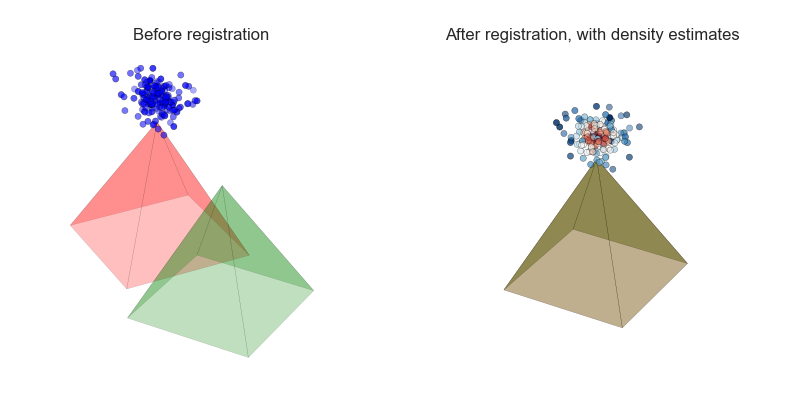
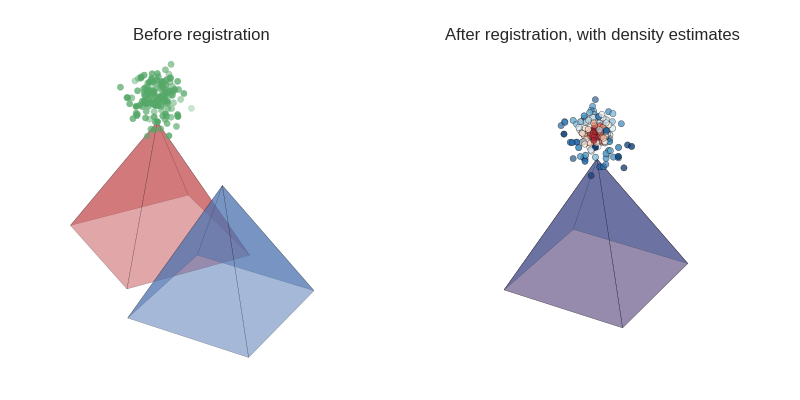
Adapt violinplot call to new API and improve colors.

diff --git a/innear.py b/innear.py
@@ -237,30 +237,35 @@ if __name__ == '__main__':
     sweep_radii(after_points, n=12)
     sns.set(style="whitegrid")
     plt.title('Density estimtates for different radii')
-    plot_densities(after_points, color='PuRd_r')
+    plot_densities(after_points, palette='PuRd_r')
     plt.show()
 
     # Plot before & after
     sns.set(style="white")
     fig = plt.figure(figsize=(8, 4))
 
+    blue = sns.color_palette('deep')[0]
+    green = sns.color_palette('deep')[1]
+    red = sns.color_palette('deep')[2]
+
     before = fig.add_subplot(1,2,1, projection='3d')
     plt.title('Before registration')
     before.axis('off')
     before.plot_trisurf(target_pyramid['x'], target_pyramid['y'], target_pyramid['z'],
-        shade=False, color='Green', alpha=0.25, linewidth=0.2)
+        shade=False, color=blue, alpha=0.5, linewidth=0.2)
     before.plot_trisurf(before_pyramid['x'], before_pyramid['y'], before_pyramid['z'],
-        shade=False, color='Red', alpha=0.25, linewidth=0.2)
-    before.scatter(before_points['x'], before_points['y'], before_points['z'])
+        shade=False, color=red, alpha=0.5, linewidth=0.2)
+    before.scatter(before_points['x'], before_points['y'], before_points['z'],
+        color=green)
     equalize_axis3d(before, 1.75)
 
     after = fig.add_subplot(1,2,2, projection='3d')
     plt.title('After registration, with density estimates')
     after.axis('off')
     after.plot_trisurf(target_pyramid['x'], target_pyramid['y'], target_pyramid['z'],
-        shade=False, color='Green', alpha=0.25, linewidth=0.2)
+        shade=False, color=blue, alpha=0.5, linewidth=0.2)
     after.plot_trisurf(after_pyramid['x'], after_pyramid['y'], after_pyramid['z'],
-        shade=False, color='Red', alpha=0.25, linewidth=0.2)
+        shade=False, color=red, alpha=0.5, linewidth=0.2)
     asdf = after.scatter(after_points['x'], after_points['y'], after_points['z'],
         c=after_points['r = 0.12'], cmap='RdBu_r')
     equalize_axis3d(after, 1, before)
